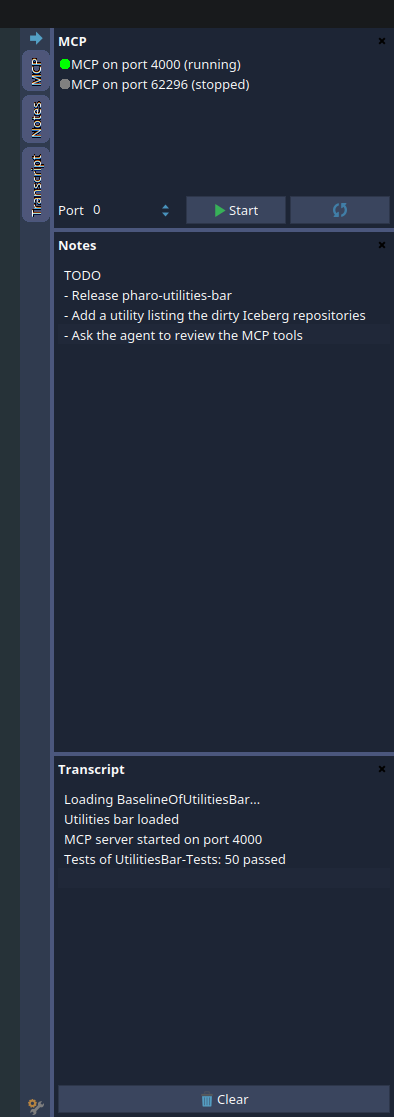
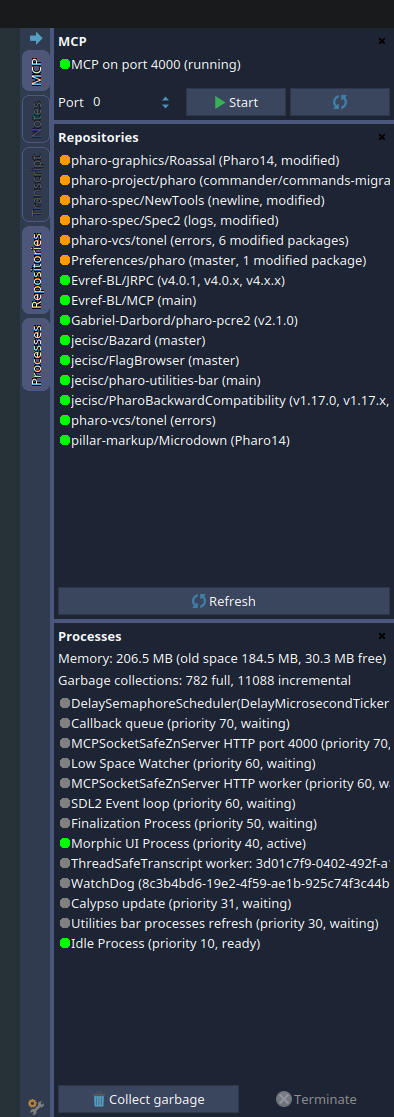
Doc

diff --git a/README.md b/README.md
@@ -29,11 +29,15 @@ Each utility adds a vertical tab to the bar. A tab tells whether its utility is 
 
 ![Clicking the tabs to show and hide utilities, then collapsing and expanding the bar](resources/toggle-tabs.gif)
 
-Drag the inner edge of the panels to change their width, and the separators between panels to share the height between them. The heights are kept as proportions, so a small panel stays small when the screen or the taskbar changes size.
+Drag the inner edge of the panels to change their width, and the separators between panels to share the height between them. The heights are kept as proportions, so a small panel stays small when the screen or the taskbar changes size. Until you resize them, the panels of utilities declaring a default height get it, and the others share the remaining height.
 
 ![Dragging the inner edge of the panels, then the separator between two panels](resources/resize.gif)
 
-Maximized windows do not cover the bar. The active utilities and the heights of their panels are kept when the bar is recreated, for example when the code of a utility changes.
+Drag a tab to reorder the utilities: a line shows where the tab lands, and the panels follow the new order of the tabs.
+
+![Dragging the Transcript tab above the MCP tab](resources/reorder-tabs.gif)
+
+Maximized windows do not cover the bar. The active utilities, the heights of their panels and the order of the tabs are kept when the bar is recreated, for example when the code of a utility changes.
 
 ## Settings
 
@@ -72,7 +76,8 @@ What a utility can override:
 | `#title` | the class name | The label of the tab and of the panel. It also identifies the utility when the bar restores its layout, so keep it unique. |
 | `#newPresenter` | subclass responsibility | The Spec presenter displayed in the panel. |
 | `#buildContent` | `self newPresenter build` | Override it instead of `#newPresenter` to display a Morph. |
-| `#priority` | `100` | The order of the tabs, lowest first. Utilities with the same priority are sorted by title. |
+| `#priority` | `100` | The order of the tabs, lowest first. Utilities with the same priority are sorted by title. Once the user reorders the tabs by dragging them, their order prevails and the utilities the user never placed go at the end. |
+| `#defaultHeight` | `nil` | The height in pixels of the panel until the user resizes the panels. Useful for small utilities. Without it, the panel shares the height of the bar with the other ones. |
 | `#displayed` and `#hidden` | nothing | Sent by the bar when the panel of the utility becomes visible and when it stops being visible (hidden, bar collapsed or deleted). Use them to only do costly work, such as following a source of updates, while the panel is visible. |
 | `UtilitiesBarUtility class >> #isAvailable` | `true` for concrete classes | Answer `false` to hide the utility, for example when a dependency it needs is missing. |
 
@@ -88,11 +93,16 @@ spec
 
 ## Example: the utilities of my pharo-scripts
 
-My [pharo-scripts](https://github.com/jecisc/pharo-scripts), the settings loaded in all my Pharo images, define three utilities. They were added in [this commit](https://github.com/jecisc/pharo-scripts/commit/4e68cea8c21825416071b8fc61b92954e9c89c37).
+My [pharo-scripts](https://github.com/jecisc/pharo-scripts), the settings loaded in all my Pharo images, define five utilities. The first three were added in [this commit](https://github.com/jecisc/pharo-scripts/commit/4e68cea8c21825416071b8fc61b92954e9c89c37) and the two others in [this one](https://github.com/jecisc/pharo-scripts/commit/e7ebefd98f844be3683fcf097e34ec2da766a069).
 
-![The MCP, Notes and Transcript utilities of my pharo-scripts](resources/pharo-scripts-utilities.png)
+![The MCP, Repositories and Processes utilities of my pharo-scripts](resources/pharo-scripts-utilities.png)
 
-**MCP** ([utility](https://github.com/jecisc/pharo-scripts/blob/4e68cea8c21825416071b8fc61b92954e9c89c37/settings/PharoSettings-Utilities/PharoMCPServersUtility.class.st), [presenter](https://github.com/jecisc/pharo-scripts/blob/4e68cea8c21825416071b8fc61b92954e9c89c37/settings/PharoSettings-Utilities/PharoMCPServersPresenter.class.st)) lists the servers of [MCP](https://github.com/Evref-BL/MCP) running in the image, with their port and a dot telling their state: green when running and listening, orange when the server and its socket disagree, gray when stopped. A port input and a button start a new server. When MCP is not loaded, the panel only displays a button to load it: the presenter looks the `MCP` class up in the environment instead of referencing it, so the utility can be loaded without MCP.
+**MCP** ([utility](https://github.com/jecisc/pharo-scripts/blob/master/settings/PharoSettings-Utilities/PharoMCPServersUtility.class.st), [presenter](https://github.com/jecisc/pharo-scripts/blob/master/settings/PharoSettings-Utilities/PharoMCPServersPresenter.class.st)) lists the servers of [MCP](https://github.com/Evref-BL/MCP) running in the image, with their port and a dot telling their state: green when running and listening, orange when the server and its socket disagree, gray when stopped. A port input and a button start a new server. When MCP is not loaded, the panel only displays a button to load it: the presenter looks the `MCP` class up in the environment instead of referencing it, so the utility can be loaded without MCP. An image usually has a single server, so the utility declares a small default height and its list can shrink to one row:
+
+```smalltalk
+PharoMCPServersUtility >> defaultHeight
+	^ 92
+```
 
 **Notes** ([utility](https://github.com/jecisc/pharo-scripts/blob/4e68cea8c21825416071b8fc61b92954e9c89c37/settings/PharoSettings-Utilities/PharoNotesUtility.class.st), [presenter](https://github.com/jecisc/pharo-scripts/blob/4e68cea8c21825416071b8fc61b92954e9c89c37/settings/PharoSettings-Utilities/PharoNotesPresenter.class.st)) is a text area saved at each change in the cache folder of the playground, which my settings share between all my images.
 
@@ -108,6 +118,10 @@ PharoTranscriptUtility >> displayed
 PharoTranscriptUtility >> hidden
 	presenter ifNotNil: [ :transcriptPresenter | transcriptPresenter stopFollowing ]
 ```
+
+**Repositories** ([utility](https://github.com/jecisc/pharo-scripts/blob/e7ebefd98f844be3683fcf097e34ec2da766a069/settings/PharoSettings-Utilities/PharoRepositoriesUtility.class.st), [presenter](https://github.com/jecisc/pharo-scripts/blob/e7ebefd98f844be3683fcf097e34ec2da766a069/settings/PharoSettings-Utilities/PharoRepositoriesPresenter.class.st)) lists the Iceberg repositories of the image, the modified ones first, with their branch, their number of modified packages and a dot: orange when modified, green when clean, red when the clone is missing. Double clicking a repository opens its working copy. While its panel is visible, it listens to the announcements of Iceberg to stay up to date.
+
+**Processes** ([utility](https://github.com/jecisc/pharo-scripts/blob/e7ebefd98f844be3683fcf097e34ec2da766a069/settings/PharoSettings-Utilities/PharoProcessesUtility.class.st), [presenter](https://github.com/jecisc/pharo-scripts/blob/e7ebefd98f844be3683fcf097e34ec2da766a069/settings/PharoSettings-Utilities/PharoProcessesPresenter.class.st)) displays the memory of the image, its garbage collections and its processes, with a dot: green when running or ready, gray when waiting, orange when suspended (often a process stopped in a debugger). Buttons collect the garbage and terminate the selected process. It refreshes itself every two seconds, only while its panel is visible.
 
 The [baseline of my settings](https://github.com/jecisc/pharo-scripts/blob/4e68cea8c21825416071b8fc61b92954e9c89c37/settings/BaselineOfPharoSettings/BaselineOfPharoSettings.class.st) loads the utilities bar before the utilities. It uses my local clone of the utilities bar when there is one, so that my images load it without network, and GitHub otherwise:
 
